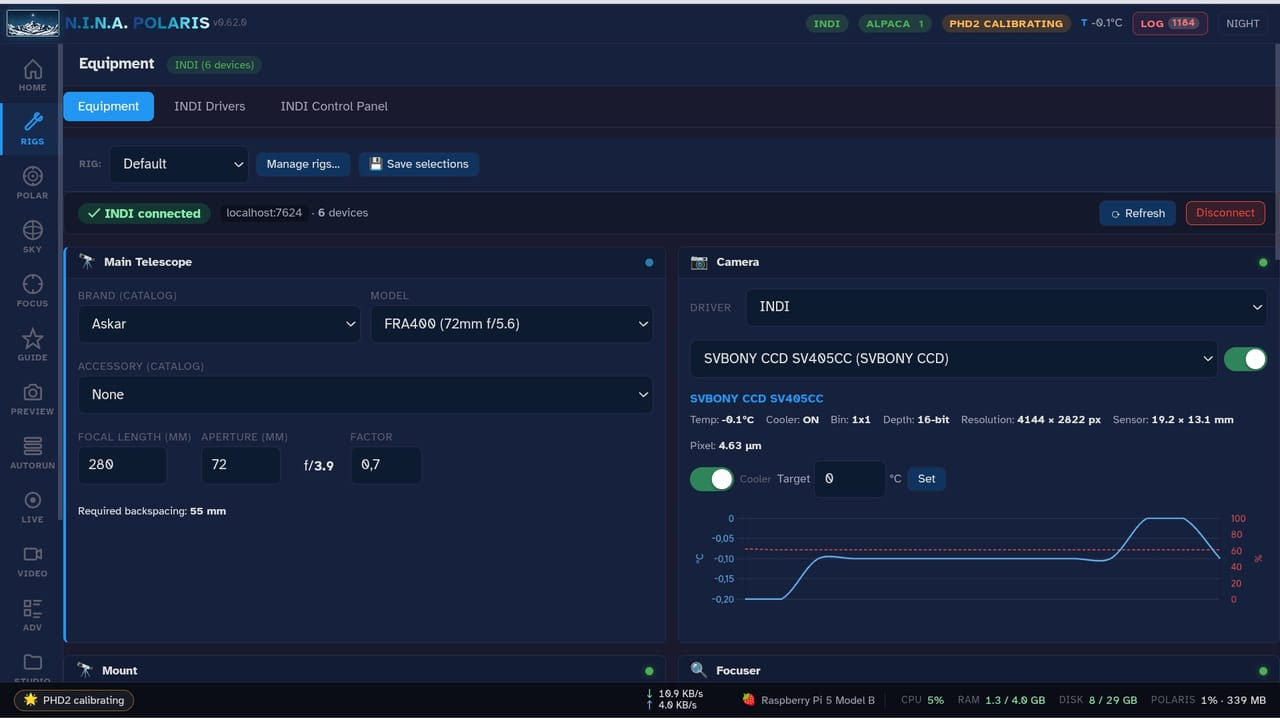
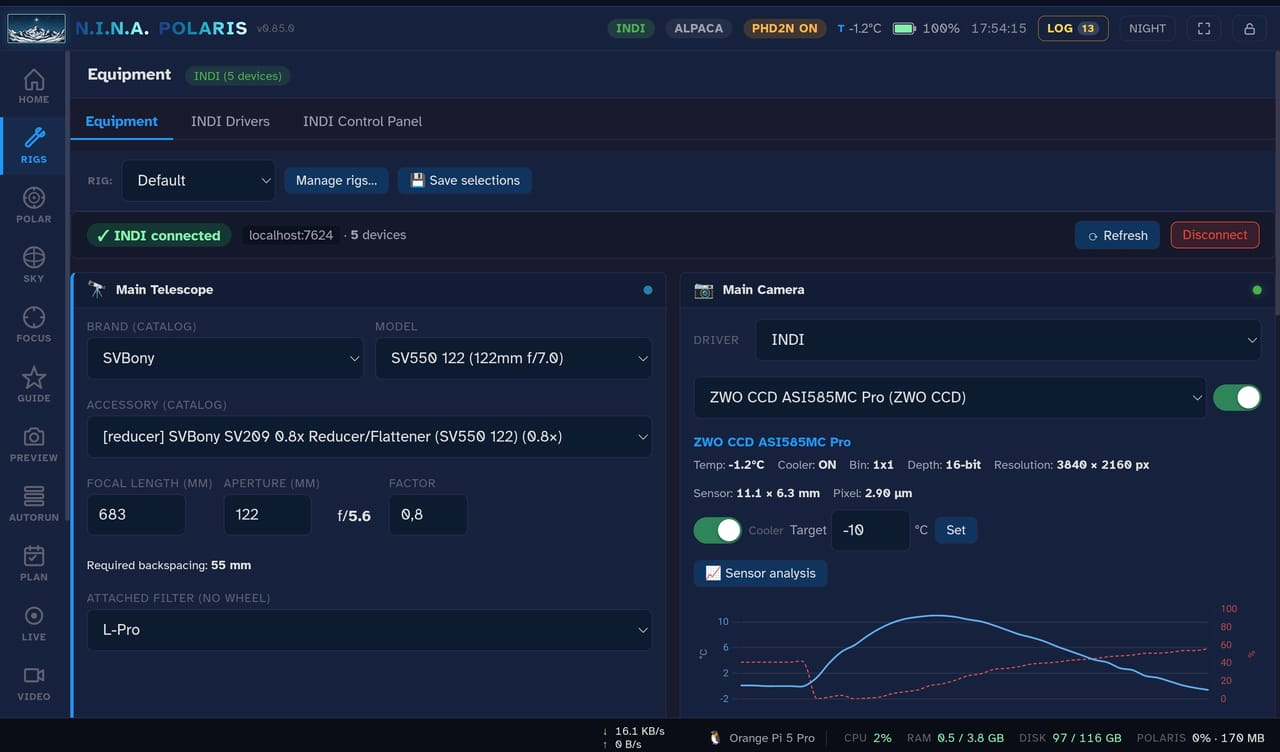
website: refresh screenshots and add self-update + plate-solve shots
Upgrade live-view (Lagoon Nebula) and gs-rigs (v0.85 equipment hub), add a
self-update modal screenshot to the install page self-update section, and a
Slew & Center plate-solve tile to the home gallery.

diff --git a/website/tina/config.ts b/website/tina/config.ts
@@ -226,6 +226,7 @@ export default defineConfig({
                   { type: 'string', name: 'selfTitle', label: 'Self-update title' },
                   { type: 'string', name: 'selfBadge', label: 'Self-update badge' },
                   { type: 'string', name: 'selfBody', label: 'Self-update body', ui: { component: 'textarea' } },
+                  { type: 'image', name: 'selfImage', label: 'Self-update screenshot' },
                   { type: 'string', name: 'manualTitle', label: 'Manual update title' },
                   { type: 'string', name: 'intro', label: 'Manual intro', ui: { component: 'textarea' } },
                   { type: 'string', name: 'code', label: 'Commands', ui: { component: 'textarea' } },
